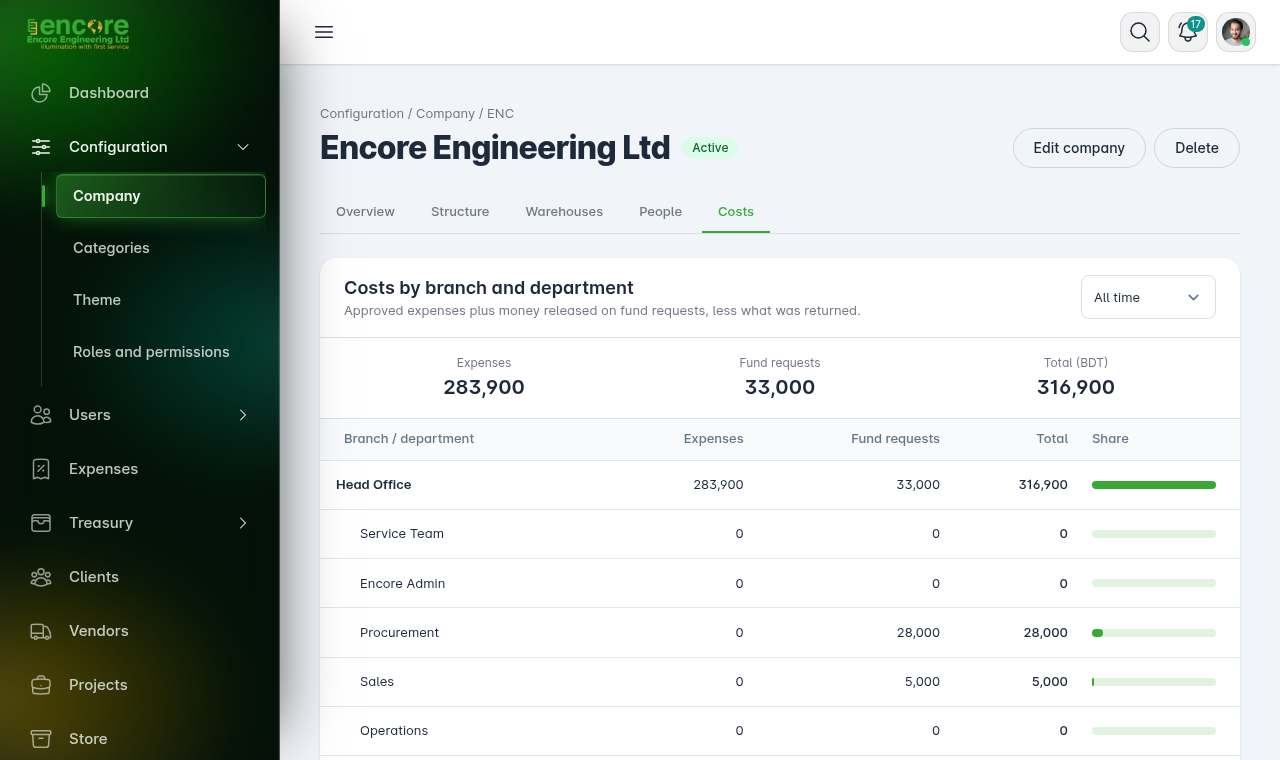
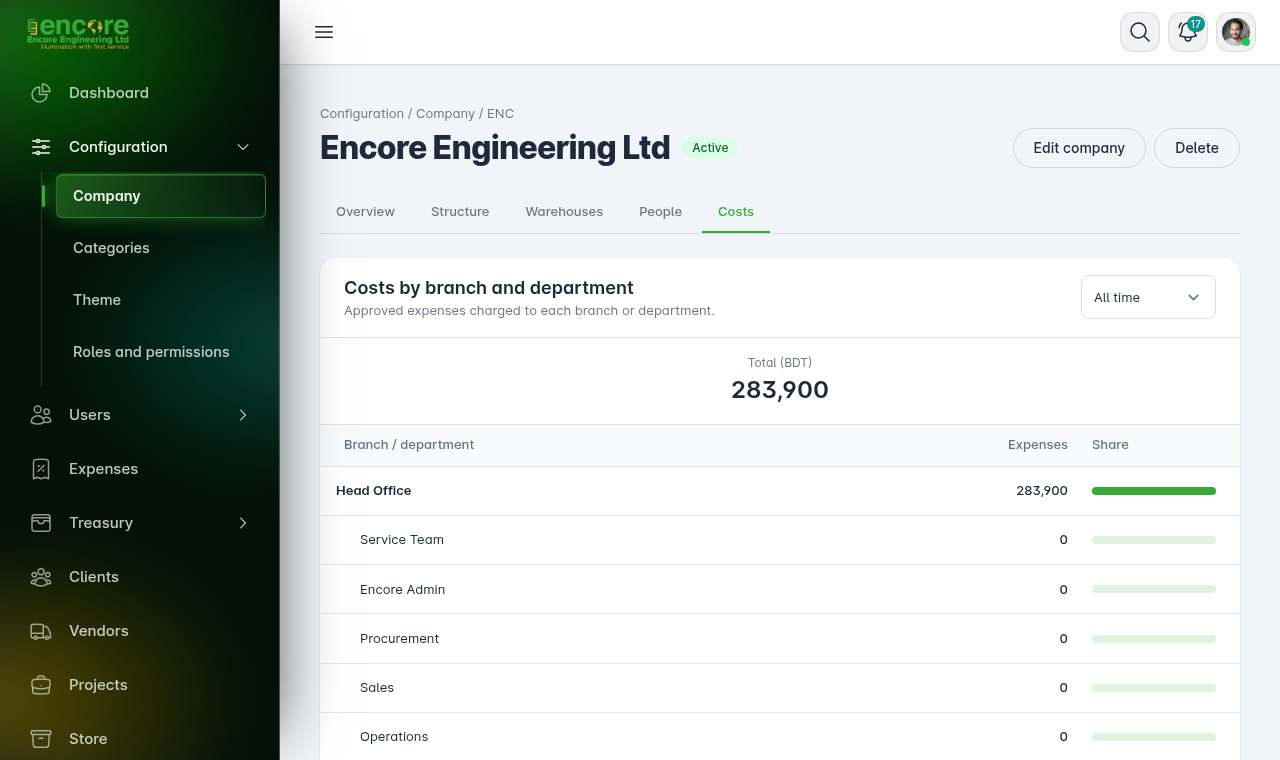
Fund requests: no category, branch or department; money goes to the employee's wallet
Claude-Session: https://claude.ai/code/session_0118pMtPNDLU8PYs1ggVcpS5

diff --git a/src/app/modules/admin/settings/company/company-detail.component.html b/src/app/modules/admin/settings/company/company-detail.component.html
@@ -131,35 +131,27 @@
                 @if (costs(); as r) {
                     <section class="mt-6 rounded-2xl bg-card shadow" aria-label="Costs by branch and department">
                         <div class="flex flex-wrap items-center justify-between gap-3 border-b px-6 py-4">
-                            <div><h2 class="text-xl font-semibold">Costs by branch and department</h2><div class="text-secondary text-md">Approved expenses plus money released on fund requests, less what was returned.</div></div>
+                            <div><h2 class="text-xl font-semibold">Costs by branch and department</h2><div class="text-secondary text-md">Approved expenses charged to each branch or department.</div></div>
                             <select class="h-11 rounded-lg border bg-transparent px-3 text-md" aria-label="Period" [ngModel]="period()" (ngModelChange)="period.set($event)">
                                 @for (p of periods; track p.id) { <option [value]="p.id">{{ p.label }}</option> }
                             </select>
                         </div>
-                        <div class="grid grid-cols-3 gap-4 border-b px-6 py-4 text-center">
-                            <div><div class="text-secondary text-sm">Expenses</div><div class="text-2xl font-semibold">{{ r.expenses | number: '1.0-0' }}</div></div>
-                            <div><div class="text-secondary text-sm">Fund requests</div><div class="text-2xl font-semibold">{{ r.funds | number: '1.0-0' }}</div></div>
-                            <div><div class="text-secondary text-sm">Total ({{ c.currency }})</div><div class="text-2xl font-semibold">{{ r.total | number: '1.0-0' }}</div></div>
-                        </div>
+                        <div class="border-b px-6 py-4 text-center"><div class="text-secondary text-sm">Total ({{ c.currency }})</div><div class="text-3xl font-semibold">{{ r.total | number: '1.0-0' }}</div></div>
                         <div class="overflow-x-auto">
-                            <table class="app-table min-w-[640px] text-md">
-                                <thead><tr><th scope="col">Branch / department</th><th scope="col" class="text-right">Expenses</th><th scope="col" class="text-right">Fund requests</th><th scope="col" class="text-right">Total</th><th scope="col" class="w-40">Share</th></tr></thead>
+                            <table class="app-table min-w-[480px] text-md">
+                                <thead><tr><th scope="col">Branch / department</th><th scope="col" class="text-right">Expenses</th><th scope="col" class="w-40">Share</th></tr></thead>
                                 <tbody>
                                     @for (row of r.rows; track row.unit.id) {
                                         <tr>
                                             <td [style.padding-left.rem]="1 + row.depth * 1.5" [class.font-semibold]="row.depth === 0">{{ row.unit.name }}</td>
-                                            <td class="text-right">{{ row.expenses | number: '1.0-0' }}</td>
-                                            <td class="text-right">{{ row.funds | number: '1.0-0' }}</td>
                                             <td class="text-right font-medium">{{ row.total | number: '1.0-0' }}</td>
                                             <td><div class="h-2 rounded-full bg-primary/15"><div class="h-2 rounded-full bg-primary" [style.width.%]="r.total ? (row.total / r.total) * 100 : 0"></div></div></td>
                                         </tr>
                                     }
-                                    @if (r.unplaced.total > 0) {
+                                    @if (r.unplaced > 0) {
                                         <tr class="text-secondary">
                                             <td>Not charged to any branch</td>
-                                            <td class="text-right">{{ r.unplaced.expenses | number: '1.0-0' }}</td>
-                                            <td class="text-right">{{ r.unplaced.funds | number: '1.0-0' }}</td>
-                                            <td class="text-right">{{ r.unplaced.total | number: '1.0-0' }}</td>
+                                            <td class="text-right">{{ r.unplaced | number: '1.0-0' }}</td>
                                             <td></td>
                                         </tr>
                                     }

diff --git a/src/app/modules/admin/settings/company/company.service.ts b/src/app/modules/admin/settings/company/company.service.ts
@@ -3,7 +3,6 @@ import { AccessService } from 'app/core/access/access.service';
 import { StoreService } from '../../store/store.service';
 import { UsersService } from '../../users/users.service';
 import { ExpensesService } from '../../expenses/expenses.service';
-import { FundsService } from '../../treasury/funds/funds.service';
 import { ChargedTo } from './charged-to.component';
 import { CHILD_KIND, Company, CostReport, CostRow, CompanyInput, OrgUnit, UnitInput, UnitKind } from './company.types';
 
@@ -24,8 +23,7 @@ export class CompanyService {
         private _access: AccessService,
         private _users: UsersService,
         private _store: StoreService,
-        private _expenses: ExpensesService,
-        private _funds: FundsService
+        private _expenses: ExpensesService
     ) {}
 
     company(id: string): Company | null {
@@ -115,53 +113,30 @@ export class CompanyService {
      * counts in its branch's total.
      */
     costs(companyId: string, from: string | null): CostReport {
-        const direct = new Map<string, { expenses: number; funds: number }>();
-        const unplaced = { expenses: 0, funds: 0, total: 0 };
-        const add = (ids: (string | null)[], kind: 'expenses' | 'funds', amount: number) => {
+        const direct = new Map<string, number>();
+        let unplaced = 0;
+        for (const e of this._expenses.expenses()) {
+            if (e.status !== 'approved' || (from && e.date < from)) {
+                continue;
+            }
+            const ids = this.unitIdsOf(e);
             const target = this.unit(ids[1] ?? ids[0]);
             if (!target) {
-                unplaced[kind] += amount;
-                return;
-            }
-            if (target.companyId === companyId) {
-                const cur = direct.get(target.id) ?? { expenses: 0, funds: 0 };
-                cur[kind] += amount;
-                direct.set(target.id, cur);
-            }
-        };
-        for (const e of this._expenses.expenses()) {
-            if (e.status === 'approved' && (!from || e.date >= from)) {
-                add(this.unitIdsOf(e), 'expenses', e.amount);
+                unplaced += e.amount;
+            } else if (target.companyId === companyId) {
+                direct.set(target.id, (direct.get(target.id) ?? 0) + e.amount);
             }
         }
-        for (const r of this._funds.requests()) {
-            const net = r.paidAmount - r.returnedAmount;
-            if (net > 0 && (!from || r.submittedAt.slice(0, 10) >= from)) {
-                add(this.unitIdsOf(r), 'funds', net);
-            }
-        }
-        unplaced.total = unplaced.expenses + unplaced.funds;
-
-        const rolled = (id: string): { expenses: number; funds: number } => {
-            const own = direct.get(id) ?? { expenses: 0, funds: 0 };
-            return this.children(id).reduce((s, c) => {
-                const r = rolled(c.id);
-                return { expenses: s.expenses + r.expenses, funds: s.funds + r.funds };
-            }, { ...own });
-        };
+        const rolled = (id: string): number => this.children(id).reduce((sum, c) => sum + rolled(c.id), direct.get(id) ?? 0);
         const rows: CostRow[] = [];
         const walk = (parentId: string | null, depth: number) => {
             for (const unit of this.unitsOf(companyId, undefined, parentId).filter((u) => u.kind !== 'team')) {
-                const r = rolled(unit.id);
-                rows.push({ unit, depth, expenses: r.expenses, funds: r.funds, total: r.expenses + r.funds });
+                rows.push({ unit, depth, total: rolled(unit.id) });
                 walk(unit.id, depth + 1);
             }
         };
         walk(null, 0);
-        const top = rows.filter((r) => r.depth === 0);
-        const expenses = top.reduce((s, r) => s + r.expenses, 0);
-        const funds = top.reduce((s, r) => s + r.funds, 0);
-        return { rows, unplaced, expenses, funds, total: expenses + funds };
+        return { rows, unplaced, total: rows.filter((r) => r.depth === 0).reduce((sum, r) => sum + r.total, 0) };
     }
 
     // -----------------------------------------------------------------------------------------------------

diff --git a/src/app/modules/admin/treasury/funds/request-form/request-form.component.ts b/src/app/modules/admin/treasury/funds/request-form/request-form.component.ts
@@ -6,11 +6,8 @@ import { MatFormFieldModule } from '@angular/material/form-field';
 import { MatInputModule } from '@angular/material/input';
 import { MatSelectModule } from '@angular/material/select';
 import { DateTime } from 'luxon';
-import { CategoryService } from 'app/core/categories/categories.service';
 import { FundsService } from '../funds.service';
 import { FundRequest } from '../funds.types';
-import { ChargedTo, ChargedToComponent } from '../../../settings/company/charged-to.component';
-import { CompanyService } from '../../../settings/company/company.service';
 import { SlideOverComponent } from '../../shared/slide-over/slide-over.component';
 
 @Component({
@@ -26,7 +23,6 @@ import { SlideOverComponent } from '../../shared/slide-over/slide-over.component
         MatInputModule,
         MatSelectModule,
         SlideOverComponent,
-        ChargedToComponent,
     ],
 })
 export class RequestFormComponent implements OnInit {
@@ -37,20 +33,16 @@ export class RequestFormComponent implements OnInit {
 
     form = this._fb.group({
         amount: [null as number | null, [Validators.required, Validators.min(0.01)]],
-        category: ['', Validators.required],
         purpose: ['', [Validators.required, Validators.maxLength(200)]],
         neededBy: [null as DateTime | null, Validators.required],
         workOrder: [null as string | null],
     });
     attachment: string | null = null;
-    charged: ChargedTo = { ...this._company.placement() };
     minDate = DateTime.now().startOf('day');
 
     constructor(
         private _fb: FormBuilder,
-        public funds: FundsService,
-        public categories: CategoryService,
-        private _company: CompanyService
+        public funds: FundsService
     ) {}
 
     ngOnInit(): void {
@@ -58,17 +50,10 @@ export class RequestFormComponent implements OnInit {
             this.form.patchValue({
                 amount: this.request.amount,
                 purpose: this.request.purpose,
-                category: this.request.category,
                 neededBy: DateTime.fromISO(this.request.neededBy),
                 workOrder: this.request.workOrder,
             });
             this.attachment = this.request.attachment;
-            this.charged = {
-                branchId: this.request.branchId ?? this._company.byName(this.request.branch, 'branch')?.id ?? null,
-                departmentId: this.request.departmentId ?? this._company.byName(this.request.department, 'department')?.id ?? null,
-                branch: this.request.branch,
-                department: this.request.department,
-            };
         }
     }
 
@@ -86,11 +71,9 @@ export class RequestFormComponent implements OnInit {
         const input = {
             amount: Number(v.amount),
             purpose: v.purpose.trim(),
-            category: v.category,
             neededBy: v.neededBy.toISO(),
             workOrder: v.workOrder || null,
             attachment: this.attachment,
-            ...(this.charged.branchId ? this.charged : {}),
         };
         if (this.request) {
             this.funds.update(this.request.id, input);

diff --git a/src/app/modules/admin/treasury/funds/funds.component.html b/src/app/modules/admin/treasury/funds/funds.component.html
@@ -180,7 +180,6 @@
                                         <th scope="col" class="font-medium">Employee</th>
                                     }
                                     <th scope="col" class="font-medium">Purpose</th>
-                                    <th scope="col" class="font-medium">Category</th>
                                     <th scope="col" class="text-right font-medium">Amount</th>
                                     <th scope="col" class="text-right font-medium">Paid</th>
                                     <th scope="col" class="font-medium">Status</th>
@@ -198,7 +197,6 @@
                                             <td>{{ r.employee }}</td>
                                         }
                                         <td>{{ r.purpose }}</td>
-                                        <td class="text-secondary">{{ r.category }}</td>
                                         <td class="whitespace-nowrap text-right">{{ r.currency }} {{ r.amount | number: '1.0-2' }}</td>
                                         <td class="whitespace-nowrap text-right">{{ r.currency }} {{ r.paidAmount | number: '1.0-2' }}</td>
                                         <td>

diff --git a/src/app/modules/admin/settings/categories/categories.component.ts b/src/app/modules/admin/settings/categories/categories.component.ts
@@ -50,7 +50,7 @@ export class CategoriesSettingsComponent implements AfterViewInit {
         private _route: ActivatedRoute,
         private _confirm: ConfirmService
     ) {
-        const [orgGroup, requestGroup, storeGroup, expenseGroup] = CATEGORY_GROUPS;
+        const [orgGroup, storeGroup, expenseGroup] = CATEGORY_GROUPS;
         this.sections = [
             {
                 group: orgGroup,
@@ -58,13 +58,6 @@ export class CategoriesSettingsComponent implements AfterViewInit {
                 nounPlural: 'funds',
                 usage: (name) => org.funds().filter((f) => f.category === name).length,
                 rename: (from, to) => org.renameCategory(from, to),
-            },
-            {
-                group: requestGroup,
-                noun: 'request',
-                nounPlural: 'requests',
-                usage: (name) => funds.requests().filter((r) => r.category === name).length,
-                rename: (from, to) => funds.renameRequestCategory(from, to),
             },
             {
                 group: storeGroup,

diff --git a/src/app/modules/admin/treasury/funds/request-form/request-form.component.html b/src/app/modules/admin/treasury/funds/request-form/request-form.component.html
@@ -15,16 +15,6 @@
         </mat-form-field>
 
         <mat-form-field class="w-full">
-            <mat-label>Category</mat-label>
-            <mat-select formControlName="category">
-                @for (c of categories.names('fund-requests'); track c) {
-                    <mat-option [value]="c">{{ c }}</mat-option>
-                }
-            </mat-select>
-            <mat-error>Choose what the money is for</mat-error>
-        </mat-form-field>
-
-        <mat-form-field class="w-full">
             <mat-label>Purpose</mat-label>
             <textarea
                 matInput
@@ -53,8 +43,6 @@
                 </mat-select>
             </mat-form-field>
         </div>
-
-        <company-charged-to class="mb-4 block" [branchId]="charged.branchId" [departmentId]="charged.departmentId" (changed)="charged = $event" />
 
         <div class="flex flex-col gap-2">
             <label for="attachment" class="text-secondary text-sm">Supporting attachment (optional)</label>

diff --git a/src/app/modules/admin/treasury/funds/funds.types.ts b/src/app/modules/admin/treasury/funds/funds.types.ts
@@ -41,8 +41,8 @@ export interface FundRequest {
     branchId?: string | null;
     departmentId?: string | null;
     purpose: string;
-    /** What the money is for. The list is managed in Configuration > Categories. */
-    category: string;
+    /** Only on older requests; new requests have no category. */
+    category?: string;
     amount: number;
     currency: string;
     neededBy: string;
@@ -124,16 +124,10 @@ export interface SourceFund {
 
 export interface FundRequestInput {
     purpose: string;
-    category: string;
     amount: number;
     neededBy: string;
     workOrder: string | null;
     attachment: string | null;
-    /** Where the cost is charged; left out, the request keeps the default branch and department. */
-    branchId?: string | null;
-    departmentId?: string | null;
-    branch?: string;
-    department?: string;
 }
 
 export interface PaymentInput {

diff --git a/src/app/modules/admin/treasury/funds/request-detail/request-detail.component.html b/src/app/modules/admin/treasury/funds/request-detail/request-detail.component.html
@@ -27,7 +27,6 @@
     <!-- Details -->
     <dl class="mt-6 divide-y text-md">
         <div class="flex justify-between gap-4 py-3"><dt class="text-secondary">Requested by</dt><dd>{{ request.employee }}</dd></div>
-        <div class="flex justify-between gap-4 py-3"><dt class="text-secondary">Category</dt><dd>{{ request.category }}</dd></div>
         <div class="flex justify-between gap-4 py-3"><dt class="text-secondary">Company</dt><dd>{{ request.company }}</dd></div>
         <div class="flex justify-between gap-4 py-3"><dt class="text-secondary">Needed by</dt><dd>{{ request.neededBy | date: 'dd MMM y' }}</dd></div>
         <div class="flex justify-between gap-4 py-3"><dt class="text-secondary">Work order</dt><dd>{{ request.workOrder || 'None' }}</dd></div>

diff --git a/src/app/core/categories/categories.service.ts b/src/app/core/categories/categories.service.ts
@@ -32,12 +32,6 @@ export const CATEGORY_GROUPS: CategoryGroup[] = [
         defaults: ['Operations', 'Project', 'Procurement', 'Payroll', 'Travel & Transport', 'Petty cash'],
     },
     {
-        id: 'fund-requests',
-        title: 'Fund requests',
-        description: 'What an employee asks money for. It is chosen on the Request Funds form.',
-        defaults: ['Travel & transport', 'Materials & supplies', 'Site expenses', 'Office', 'Meals & entertainment', 'Other'],
-    },
-    {
         id: 'store-items',
         title: 'Store items',
         description: 'Groups the product catalogue in Store, such as Electrical or Tools.',

diff --git a/src/app/modules/admin/treasury/funds/funds.service.ts b/src/app/modules/admin/treasury/funds/funds.service.ts
@@ -65,11 +65,6 @@ export class FundsService {
         () => new Map(this._requests().map((r) => [r.id, r]))
     );
 
-    /** Requests follow a category when it is renamed in Configuration. */
-    renameRequestCategory(from: string, to: string): void {
-        this._requests.update((list) => list.map((r) => (r.category === from ? { ...r, category: to } : r)));
-    }
-
     /** Category of the fund a payment was taken from. */
     fundCategory(fundId: string): string {
         return this._org.funds().find((f) => f.id === fundId)?.category ?? 'Other';

diff --git a/src/app/modules/admin/settings/company/company.types.ts b/src/app/modules/admin/settings/company/company.types.ts
@@ -37,17 +37,13 @@ export type UnitInput = Omit<OrgUnit, 'id'>;
 export interface CostRow {
     unit: OrgUnit;
     depth: number;
-    expenses: number;
-    funds: number;
     total: number;
 }
 
 export interface CostReport {
     rows: CostRow[];
-    /** Costs charged to no branch or department at all. */
-    unplaced: { expenses: number; funds: number; total: number };
-    expenses: number;
-    funds: number;
+    /** Approved expenses charged to no branch or department at all. */
+    unplaced: number;
     total: number;
 }
 

diff --git a/src/app/modules/admin/treasury/funds/request-detail/request-detail.component.ts b/src/app/modules/admin/treasury/funds/request-detail/request-detail.component.ts
@@ -182,7 +182,6 @@ export class RequestDetailComponent {
                 {
                     rows: [
                         ['Requested by', r.employee],
-                        ['Category', r.category],
                         ['Company', r.company],
                         ['Requested amount', money(r.amount)],
                         ['Approved amount', r.approvedAmount === null ? 'Not approved yet' : money(r.approvedAmount)],
